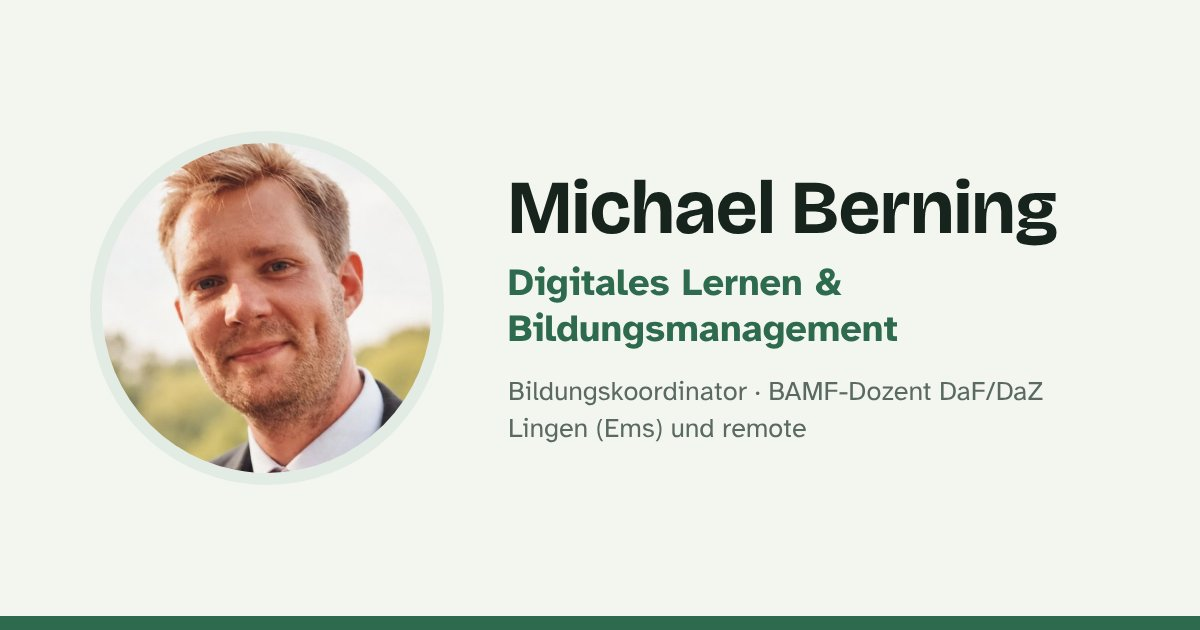
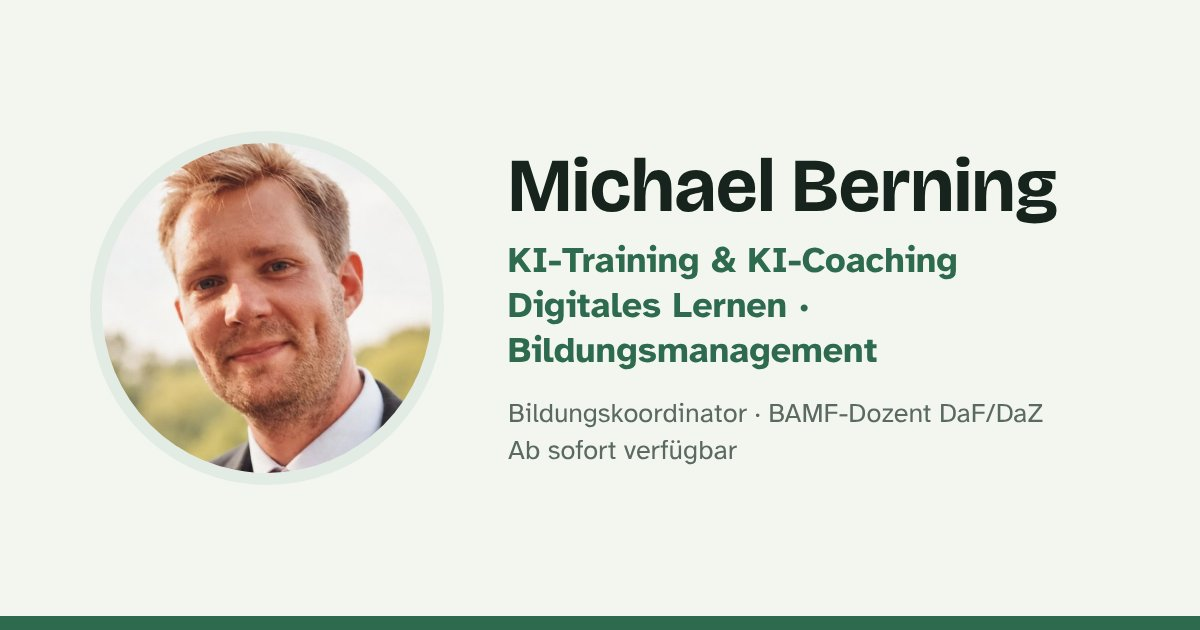
Ab sofort verfügbar, Profilzeile KI-Training & KI-Coaching, beide Kontaktadressen, neues Vorschaubild
Claude-Session: https://claude.ai/code/session_01RTospRH3Kzm5jfYXQc6A5J

Changed region(s): [[0.4008, 0.2413, 0.8942, 0.754]]

diff --git a/index.html b/index.html
@@ -4,8 +4,8 @@
 <head>
 <meta charset="utf-8"/>
 <meta content="width=device-width, initial-scale=1" name="viewport"/>
-<title>Michael Berning – Digitales Lernen &amp; Bildungsmanagement</title>
-<meta content="Michael Berning – digitales Lernen und Bildungsmanagement. Bildungskoordinator, BAMF-Dozent DaF/DaZ, Lehrkraft für Biologie und Spanisch. Lingen (Ems) und remote." name="description"/>
+<title>Michael Berning – KI-Training, digitales Lernen &amp; Bildungsmanagement</title>
+<meta content="Michael Berning – KI-Training und KI-Coaching, digitales Lernen und Bildungsmanagement. Bildungskoordinator, BAMF-Dozent DaF/DaZ, Lehrkraft für Biologie und Spanisch. Lingen (Ems) und remote." name="description"/>
 <link href="fonts.css" rel="stylesheet"/>
 <style>
 /* Layout: Feldbuch trifft Lebenslauf – linke Randspalte für Kennungen, rechts der Inhalt; ein Bestimmungsschlüssel als Navigationshilfe für Arbeitgeber */
@@ -139,7 +139,7 @@ section.block h2{font-size:clamp(1.6rem,3.4vw,2.1rem);margin-bottom:16px}
 .contact h2{font-size:clamp(1.6rem,3.4vw,2.1rem)}
 .contact p{max-width:55ch}
 .contact .row{display:flex;flex-wrap:wrap;gap:12px;align-items:center;margin-top:6px}
-.contact .addr{font-weight:700;font-size:1.1rem}
+.contact .addr{font-weight:700;font-size:1.1rem;line-height:1.7}.contact .addr a{color:inherit}
 .contact .btn{border-color:var(--paper)}
 .contact .btn.primary{background:var(--paper);color:var(--leaf)}
 .contact .btn.ghost{color:var(--paper)}
@@ -233,15 +233,15 @@ nav a{white-space:nowrap}
 @media (prefers-color-scheme:dark){.ail-tips{background:var(--surface);border-color:var(--line)}}.ail-footer p{font-size:.84rem;line-height:1.6;color:#536257;margin:6px 0}.ail-footer a{color:#24543f;text-decoration:underline}.ail-links{display:flex;gap:10px 20px;flex-wrap:wrap}.ail-jump{font-size:.9rem;font-weight:700;color:#24543f}#ai-literacy,#es-ai-literacy,#en-ai-literacy{scroll-margin-top:100px}@media(max-width:650px){.ail-grid{grid-template-columns:1fr}.ail-card{padding:19px}.ail-banner{padding:21px}.ail-banner strong{font-size:1.15rem}}
 </style><link rel="icon" href="/assets/favicon.svg" type="image/svg+xml"/>
 <link rel="apple-touch-icon" href="/assets/apple-touch-icon.png"/>
-<meta property="og:title" content="Michael Berning – Digitales Lernen &amp; Bildungsmanagement"/>
-<meta property="og:description" content="Digitales Lernen und Bildungsmanagement: Bildungskoordinator, BAMF-Dozent DaF/DaZ und Lehrkraft für Biologie und Spanisch. Lingen (Ems) und remote, verfügbar ab 15. November 2026."/>
+<meta property="og:title" content="Michael Berning – KI-Training, digitales Lernen &amp; Bildungsmanagement"/>
+<meta property="og:description" content="KI-Training, digitales Lernen und Bildungsmanagement: Bildungskoordinator, BAMF-Dozent DaF/DaZ und Lehrkraft für Biologie und Spanisch. Lingen (Ems) und remote, ab sofort verfügbar."/>
 <meta property="og:url" content="https://michaelberning.com/"/>
 <meta property="og:type" content="website"/>
 <meta property="og:locale" content="de_DE"/>
 <meta property="og:image" content="https://michaelberning.com/assets/og/michael-berning-og.jpg"/>
 <meta property="og:image:width" content="1200"/>
 <meta property="og:image:height" content="630"/>
-<meta property="og:image:alt" content="Michael Berning – Digitales Lernen &amp; Bildungsmanagement"/>
+<meta property="og:image:alt" content="Michael Berning – KI-Training, digitales Lernen &amp; Bildungsmanagement"/>
 <meta name="twitter:card" content="summary_large_image"/>
 
 <style>
@@ -307,8 +307,8 @@ nav a{white-space:nowrap}
 <div class="hero">
 <div class="photo has-img"><img alt="Porträt von Michael Berning" height="480" src="/assets/img/michael-berning.jpg" width="480"/></div>
 <div>
-<div class="status" data-now="Ab sofort verfügbar">Verfügbar ab 15. November 2026</div>
-<h1>Michael Berning</h1><p class="role">Digitales Lernen &amp; Bildungsmanagement</p>
+<div class="status">Ab sofort verfügbar</div>
+<h1>Michael Berning</h1><p class="role">KI-Training &amp; KI-Coaching · Digitales Lernen · Bildungsmanagement</p>
 <p class="lead">Ich plane und koordiniere Bildungsangebote und erstelle digitale Lernmaterialien mit KI-Unterstützung. Dabei stütze ich mich auf meine Erfahrung als <em>Bildungskoordinator</em>, <em>BAMF-Dozent für DaF/DaZ</em> und <em>Lehrkraft für Biologie und Spanisch</em>.</p>
 <div class="facts"><span>M. Ed. Biologie &amp; Spanisch</span><span>Spanisch C1 · Englisch sehr gut</span></div>
 <div class="actions">
@@ -353,10 +353,9 @@ nav a{white-space:nowrap}
 <section class="contact" id="kontakt">
 <h2>Lassen Sie uns sprechen</h2>
 <p>Ich freue mich über Nachrichten zu Stellen im Raum Lingen (Ems) und Umgebung oder remote, aber auch über Austausch zu digitalem Lernen und KI in der Bildung.</p>
-<div class="row"><span class="addr">michael.berning@gmx.de</span></div>
+<div class="row"><span class="addr"><a href="mailto:michael.berning@gmx.de">michael.berning@gmx.de</a><br/><a href="mailto:kontakt@michaelberning.com">kontakt@michaelberning.com</a></span></div>
 <div class="row">
 <a class="btn primary" href="mailto:michael.berning@gmx.de">E-Mail schreiben</a>
-<button class="btn ghost copy-mail" data-fail="Kopieren nicht möglich. Bitte die Adresse oben markieren." data-ok="Adresse kopiert." type="button">Adresse kopieren</button>
 <a class="btn ghost" href="https://www.linkedin.com/in/michael-berning-01328186/" rel="noopener" target="_blank">LinkedIn-Profil</a>
 <a class="btn ghost" href="https://www.xing.com/profile/Michael_Berning3" rel="noopener" target="_blank">Xing-Profil</a>
 <a class="btn ghost" href="/lebenslauf_michael_berning.pdf?v=20261110g" rel="noopener" target="_blank">Lebenslauf (PDF)</a>
@@ -368,8 +367,8 @@ nav a{white-space:nowrap}
 <div class="hero">
 <div class="photo has-img"><img alt="Retrato de Michael Berning" height="480" src="/assets/img/michael-berning.jpg" width="480"/></div>
 <div>
-<div class="status" data-now="Disponible de inmediato">Disponible a partir del 15 de noviembre de 2026</div>
-<h1>Michael Berning</h1><p class="role">Aprendizaje digital y gestión educativa</p>
+<div class="status">Disponible de inmediato</div>
+<h1>Michael Berning</h1><p class="role">Formación y coaching en IA · Aprendizaje digital · Gestión educativa</p>
 <p class="lead">Planifico y coordino ofertas educativas y creo materiales didácticos digitales con apoyo de IA. Me baso en mi experiencia como <em>coordinador educativo</em>, <em>profesor de alemán acreditado por el BAMF</em> y <em>docente de Biología y Español</em>.</p>
 <div class="facts"><span>Máster en Educación (M.Ed.) Biología y Español</span><span>Español C1 · Inglés muy bueno</span></div>
 <div class="actions">
@@ -414,10 +413,9 @@ nav a{white-space:nowrap}
 <section class="contact" id="es-contacto">
 <h2>Hablemos</h2>
 <p>Me alegrará recibir mensajes sobre puestos en la zona de Lingen (Ems) o en remoto, y también intercambiar ideas sobre aprendizaje digital e IA en la educación.</p>
-<div class="row"><span class="addr">michael.berning@gmx.de</span></div>
+<div class="row"><span class="addr"><a href="mailto:michael.berning@gmx.de">michael.berning@gmx.de</a><br/><a href="mailto:kontakt@michaelberning.com">kontakt@michaelberning.com</a></span></div>
 <div class="row">
 <a class="btn primary" href="mailto:michael.berning@gmx.de">Escribir un correo</a>
-<button class="btn ghost copy-mail" data-fail="No se pudo copiar. Seleccione la dirección de arriba." data-ok="Dirección copiada." type="button">Copiar dirección</button>
 <a class="btn ghost" href="https://www.linkedin.com/in/michael-berning-01328186/" rel="noopener" target="_blank">Perfil de LinkedIn</a>
 <a class="btn ghost" href="https://www.xing.com/profile/Michael_Berning3" rel="noopener" target="_blank">Perfil de Xing</a>
 <a class="btn ghost" href="/lebenslauf_michael_berning.pdf?v=20261110g" rel="noopener" target="_blank">Currículum (PDF, alemán)</a>
@@ -429,8 +427,8 @@ nav a{white-space:nowrap}
 <div class="hero">
 <div class="photo has-img"><img alt="Portrait of Michael Berning" height="480" src="/assets/img/michael-berning.jpg" width="480"/></div>
 <div>
-<div class="status" data-now="Available now">Available from 15 November 2026</div>
-<h1>Michael Berning</h1><p class="role">Digital learning &amp; education management</p>
+<div class="status">Available now</div>
+<h1>Michael Berning</h1><p class="role">AI training &amp; coaching · Digital learning · Education management</p>
 <p class="lead">I plan and coordinate educational programmes and create digital learning materials with AI support, drawing on my experience as an <em>education coordinator</em>, a <em>BAMF-certified German teacher</em> and a <em>biology and Spanish teacher</em>.</p>
 <div class="facts"><span>M.Ed. Biology &amp; Spanish</span><span>Spanish C1 · English very good</span></div>
 <div class="actions">
@@ -475,10 +473,9 @@ nav a{white-space:nowrap}
 <section class="contact" id="en-contact">
 <h2>Let’s talk</h2>
 <p>I look forward to hearing about positions in the Lingen (Ems) area or remote roles, and to exchanging ideas on digital learning and AI in education.</p>
-<div class="row"><span class="addr">michael.berning@gmx.de</span></div>
+<div class="row"><span class="addr"><a href="mailto:michael.berning@gmx.de">michael.berning@gmx.de</a><br/><a href="mailto:kontakt@michaelberning.com">kontakt@michaelberning.com</a></span></div>
 <div class="row">
 <a class="btn primary" href="mailto:michael.berning@gmx.de">Send an email</a>
-<button class="btn ghost copy-mail" data-fail="Copying failed. Please select the address above." data-ok="Address copied." type="button">Copy address</button>
 <a class="btn ghost" href="https://www.linkedin.com/in/michael-berning-01328186/" rel="noopener" target="_blank">LinkedIn profile</a>
 <a class="btn ghost" href="https://www.xing.com/profile/Michael_Berning3" rel="noopener" target="_blank">Xing profile</a>
 <a class="btn ghost" href="/lebenslauf_michael_berning.pdf?v=20261110g" rel="noopener" target="_blank">CV (PDF, German)</a>
@@ -524,6 +521,5 @@ document.querySelectorAll('.dtabs').forEach(function(list){
 });
 </script>
 <script>(function(){var t=document.querySelector(".menu-toggle"),h=document.querySelector("header.top");if(!t)return;t.addEventListener("click",function(){var o=h.classList.toggle("open");t.setAttribute("aria-expanded",String(o));});document.querySelectorAll("header nav a").forEach(function(a){a.addEventListener("click",function(){h.classList.remove("open");t.setAttribute("aria-expanded","false");});});})();</script>
-<script>if(new Date()>=new Date("2026-11-15T00:00:00+01:00")){document.querySelectorAll(".status[data-now]").forEach(function(e){e.textContent=e.dataset.now;});}</script>
 </body>
 </html>
